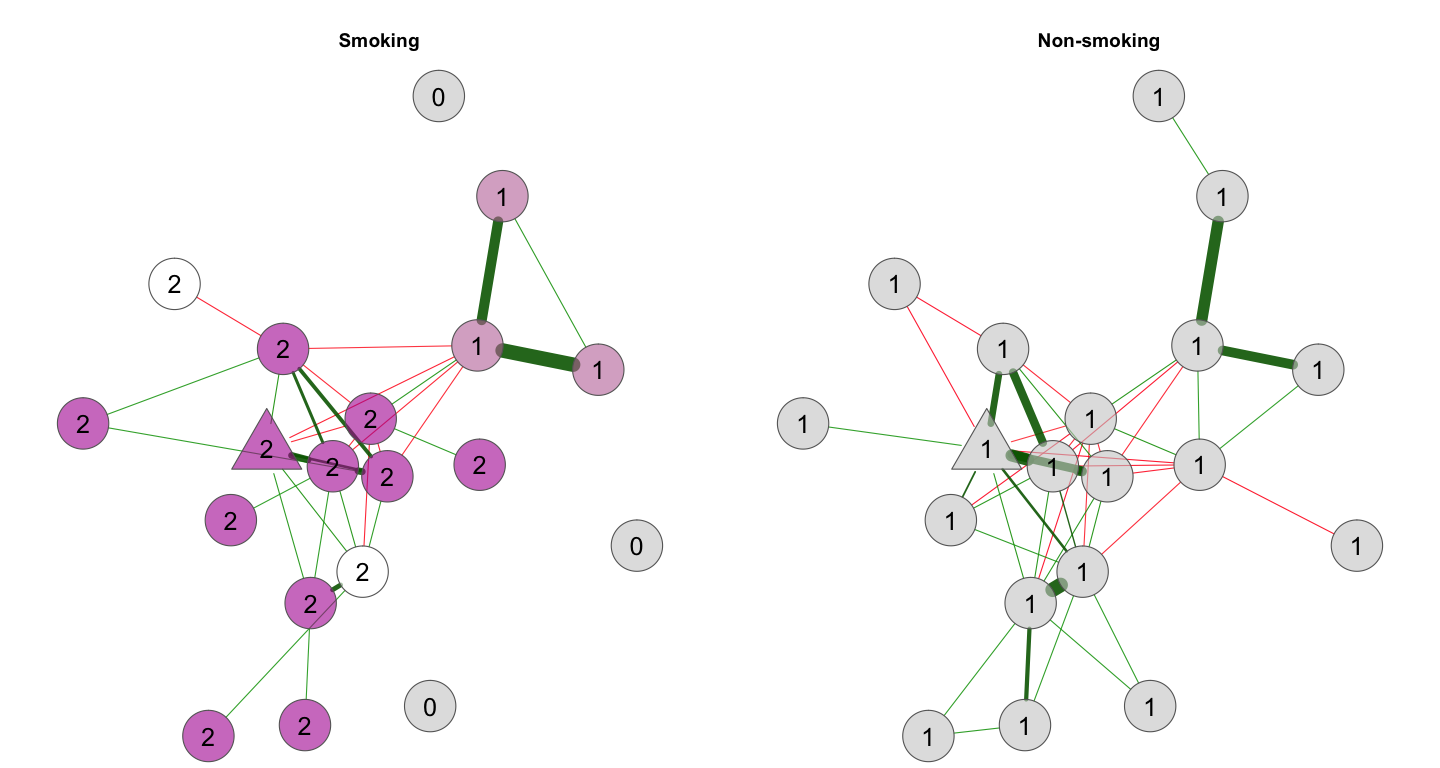
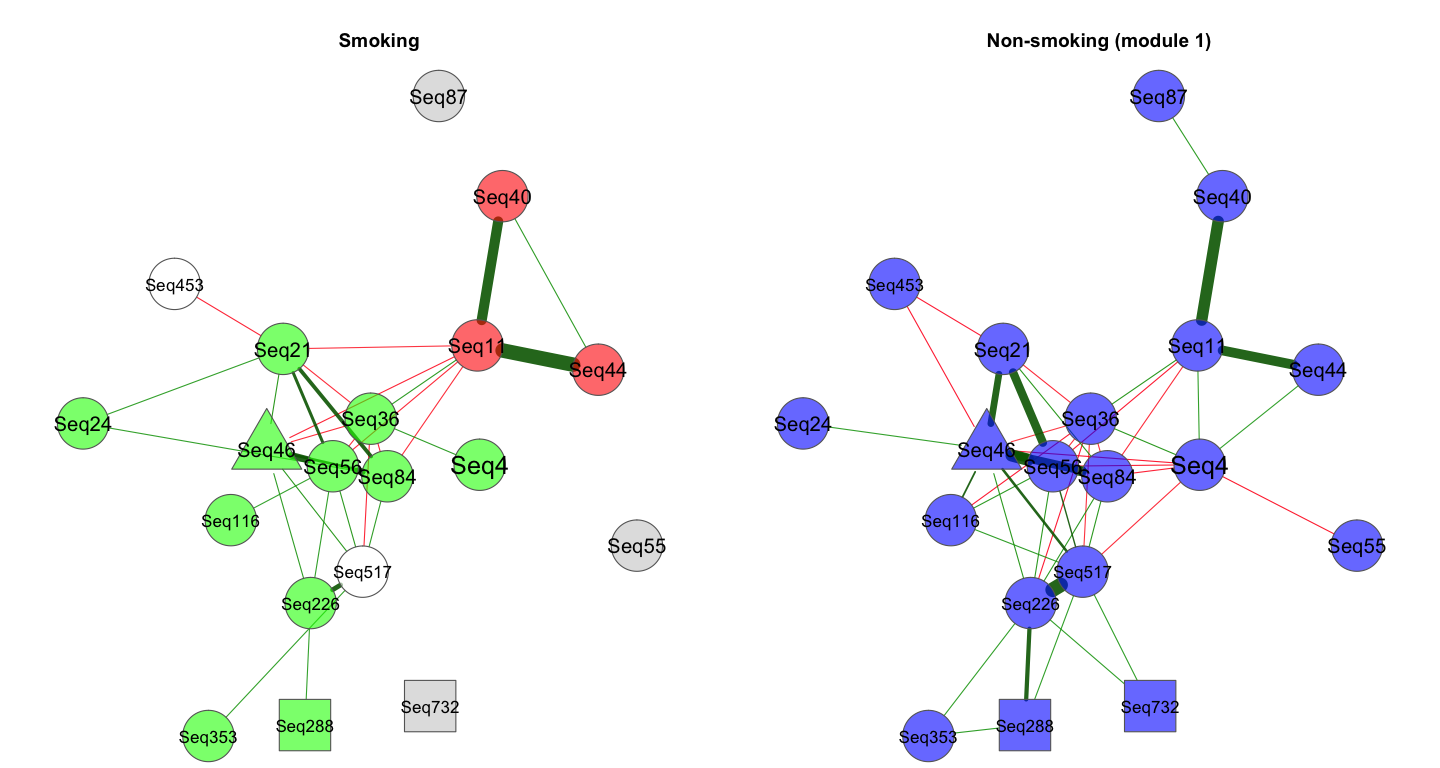
story Genus smoke

diff --git a/5_networks/5.2.1_Networks_viz_Gen_smoke.md b/5_networks/5.2.1_Networks_viz_Gen_smoke.md
@@ -37,33 +37,57 @@ phyl_ps_prune <- as.factor(tax_table(ps_Genus_prune)[, 'Phylum'])
 names(phyl_ps_prune) <- rownames(tax_table(ps_Genus_prune)[, 'Phylum'])
 phylcol <- rainbow(length(unique(phyl_ps_prune)))
 
+phyl_ps_fam <- as.factor(tax_table(ps_Genus_prune)[, 'Family'])
+# names(phyl_ps_fam) <- rownames(tax_table(ps_Genus_prune)[, 'Family'])
+labels_phyl <- substr(as.character(phyl_ps_fam), 1, 4)
+
 set.seed(1)
-props_W_igraph <- graph_from_adjacency_matrix(props_W$input$adjaMat1, 
-                                              #mode = "undirected",
-                                              weighted = TRUE)
+
+# which(tax_table(ps_Genus_prune)[,"Class"] == "Mollicutes")
+# 70 112
+# which(tax_table(ps_Genus_prune)[,"Class"] == "Coriobacteriia")
+# 28  50  77  87  90  99 110 128 131 >> same numbers for Family Coriobacteriaceae 
+# Genus level diff ab
+# 24  40  53 105
 
 
-FA_coord <- layout.forceatlas2(props_W_igraph, iterations=2000, plotstep=2001)
-rownames(FA_coord) <- names(phyl_ps_prune)
+shapeVec <- rep(1, ncol(otu_table(ps_Genus_prune)))
+shapeVec[c(24, 40, 53, 105)] <- 2
+shapeVec[c(28,  50,  77,  87,  90, 99, 110, 128, 131, 70, 112)] <- 3
+names(shapeVec) <- names(phyl_ps_prune)
+
 
 plot(props_W, 
-     # layout = FA_coord,
      layout = "layout_with_fr",
-     sameLayout = TRUE, layoutGroup = 1, labels = FALSE, 
-     featVecCol = phyl_ps_prune, nodeColor = "feature",nodeTransp = 55,
-     borderCol = "gray40", highlightHubs = FALSE, nodeSize = "normCounts", 
-     nodeSizeSpread = 1, cexNodes = 5, cexTitle = .8,
-     edgeTranspLow = 70, edgeTranspHigh = 50,
+     sameLayout = TRUE, layoutGroup = 1, 
+     labels = FALSE,
+     # labelScale = TRUE,
+     featVecCol = phyl_ps_prune, nodeColor = "feature",
+     nodeTransp = 20,
+     borderCol = "gray40", highlightHubs = FALSE, 
+     nodeSize = "normCounts", 
+     cexNodes = 1, 
+     cexTitle = 2,
+     edgeTranspLow = 30, 
+     edgeTranspHigh = 30,
+     nodeShape = c("circle", "triangle","square"),
+     featVecShape = shapeVec,
      rmSingles = "inboth",
-     mar = c(3,5,3,2), groupNames = c("Smoking", "Non-smoking"))
+     mar = c(6,5,3,2), groupNames = c("Smoking", "Non-smoking"))
 legend("top", 
        inset = .05, title = "phylum:",
        legend=levels(phyl_ps_prune), ncol = 2,
        col=phylcol, pt.bg = phylcol, bty = "n", pch=16) 
 legend("bottom", 
-       inset = .15, title = "weights:",
-       legend=c("positive","negative"), lty = 1,
-       col=c("green","red"), bty="n", horiz = TRUE) 
+       inset = .11, 
+       title = "weights:",
+       legend=c("+","-"), lty = 1, lwd = 2,
+       col=c("darkgreen","red"), bty="n", horiz = TRUE) 
+legend("bottom", 
+       inset = .17, 
+       title = "differentially abundant:",
+       legend=c("Genus (Christensenellaceae-R-7-group)","Class"), pch = c(2,0), 
+       bty="n", horiz = FALSE) 
 ```
 
 ![](5.2.1_Networks_viz_Gen_smoke_files/figure-gfm/unnamed-chunk-4-1.png)<!-- -->
@@ -104,32 +128,39 @@ summary(props_W)[[2]]
 nclust_1 <- max(as.numeric(names(table(props_W$clustering$clust1))))+1
 nclust_2 <- max(as.numeric(names(table(props_W$clustering$clust2))))+1
 nclust <- nclust_1 + nclust_2
+set.seed(16)
 col <- sample(polychrome(nclust))
 
-# which(tax_table(ps_Genus_prune)[,"Genus"] == "Family_XIII_AD3011_group")
-# 24  40  53 105
-
-shapeVec <- rep(1, ncol(otu_table(ps_Genus_prune)))
-shapeVec[c(24, 40, 53, 105)] <- 2
-names(shapeVec) <- names(phyl_ps_prune)
-
+set.seed(1)
 plot_cluster <- plot(props_W,
      # layout = FA_coord,
      layout = "layout_with_fr",
      sameLayout = TRUE, layoutGroup = 1, 
-     labels = list(props_W$clustering$clust1, props_W$clustering$clust2), 
+     labels = FALSE, 
      labelFont = 1, cexLabels = 2,
      nodeColor = "cluster",
      colorVec = col,
-     sameColThresh = 20,
+     sameColThresh = 2,
      nodeTransp = 40, 
      borderCol = "gray40", highlightHubs = FALSE,
-     nodeSize = "fix", cexNodes = 2, 
-     nodeShape = c("circle", "triangle"),
+     nodeSize = "fix", cexNodes = 1, 
+     nodeShape = c("circle", "triangle", "square"),
      featVecShape = shapeVec,
-     # rmSingles = "inboth",
-     edgeTranspLow = 10, edgeTranspHigh = 10,
-     groupNames = c("Smoking", "Non-smoking"))
+     rmSingles = "inboth",
+     cexTitle = 2,
+     edgeTranspLow = 30, 
+     edgeTranspHigh = 30,
+     mar = c(6,5,3,2), groupNames = c("Smoking", "Non-smoking"))
+legend("bottom", 
+       inset = .11, 
+       title = "weights:",
+       legend=c("+","-"), lty = 1, lwd = 2,
+       col=c("darkgreen","red"), bty="n", horiz = TRUE) 
+legend("bottom", 
+       inset = .17, 
+       title = "differentially abundant:",
+       legend=c("Genus (Christensenellaceae-R-7-group)","Class"), pch = c(2,0), 
+       bty="n", horiz = FALSE) 
 ```
 
 ![](5.2.1_Networks_viz_Gen_smoke_files/figure-gfm/unnamed-chunk-7-1.png)<!-- -->
@@ -186,62 +217,62 @@ legend(x=.1, y=-1.1, legend=legend_cats$size_text, pt.cex=legend_cats$size_circl
 
 ![](5.2.1_Networks_viz_Gen_smoke_files/figure-gfm/unnamed-chunk-8-1.png)<!-- -->
 
-#### Module 2 split (polluted air)
+### Module 2 split (smoking)
 
 ``` r
 names_clust <- as.character(names(which(props_W$clustering$clust1 == 2)))
 # labels_phyl <- substr(as.character(phyl_ps_prune[names_clust]), 1, 3)
-col_module <- unique(plot_cluster$q1$Arguments$color[names_clust],
-                     plot_cluster$q2$Arguments$color[names_clust])
+#col_module <- unique(plot_cluster$q1$Arguments$color[names_clust],
+#                     plot_cluster$q2$Arguments$color[names_clust])
 
 plot(props_W, 
      sameLayout = TRUE, layoutGroup = 1, 
-     labels = list(props_W$clustering$clust1[names_clust], props_W$clustering$clust2[names_clust]), 
+     #labels = list(props_W$clustering$clust1[names_clust], props_W$clustering$clust2[names_clust]), 
      labelFont = 1, cexLabels = 1.5,
      nodeColor = "cluster",
-     colorVec =  col_module,
+     #colorVec =  col_module,
      sameClustCol = FALSE,
      nodeTransp = 40, 
      borderCol = "gray40", highlightHubs = FALSE,
      nodeSize = "fix", cexNodes = 1, 
      nodeFilter = "names",
-     nodeShape = c("circle", "triangle"),
+     nodeShape = c("circle", "triangle", "square"),
      featVecShape = shapeVec[names_clust],
      nodeFilterPar = names_clust,
      edgeTranspLow = 10, edgeTranspHigh = 10,
-     groupNames = c("Smoking", "Non-smoking"))
+     groupNames = c("Smoking (module 2)", "Non-smoking"))
 ```
 
 ![](5.2.1_Networks_viz_Gen_smoke_files/figure-gfm/unnamed-chunk-9-1.png)<!-- -->
-\#\#\#\# Module 1 split (clean air)
+\#\#\# Module 1 split (non-smoking)
 
 ``` r
 names_clust <- as.character(names(which(props_W$clustering$clust2 == 1)))
 # labels_phyl <- substr(as.character(phyl_ps_prune[names_clust]), 1, 3)
-col_module <- unique(plot_cluster$q1$Arguments$color[names_clust],
-                     plot_cluster$q2$Arguments$color[names_clust])
+# col_module <- unique(plot_cluster$q1$Arguments$color[names_clust],
+#                     plot_cluster$q2$Arguments$color[names_clust])
 
 plot(props_W, 
      sameLayout = TRUE, layoutGroup = 2, 
-     labels = list(props_W$clustering$clust1[names_clust], props_W$clustering$clust2[names_clust]), 
+     # labels = list(props_W$clustering$clust1[names_clust], props_W$clustering$clust2[names_clust]), 
      labelFont = 1, cexLabels = 1.5,
      nodeColor = "cluster",
-     colorVec =  col_module,
+     # colorVec =  col_module,
      sameClustCol = FALSE,
      nodeTransp = 40, 
      borderCol = "gray40", highlightHubs = FALSE,
      nodeSize = "fix", cexNodes = 1, 
      nodeFilter = "names",
-     nodeShape = c("circle", "triangle"),
+     nodeShape = c("circle", "triangle","square"),
      featVecShape = shapeVec[names_clust],
      nodeFilterPar = names_clust,
      edgeTranspLow = 10, edgeTranspHigh = 10,
-     groupNames = c("Smoking", "Non-smoking"))
+     groupNames = c("Smoking", "Non-smoking (module 1)"))
 ```
 
 ![](5.2.1_Networks_viz_Gen_smoke_files/figure-gfm/unnamed-chunk-10-1.png)<!-- -->
 
-### Correlation structure of module 1 (clean air)
+### Correlation structure of module 1 (non-smoking)
 
 ``` r
 col1 <- colorRampPalette(c("#7F0000", "red", "#FF7F00", "yellow", "white",
